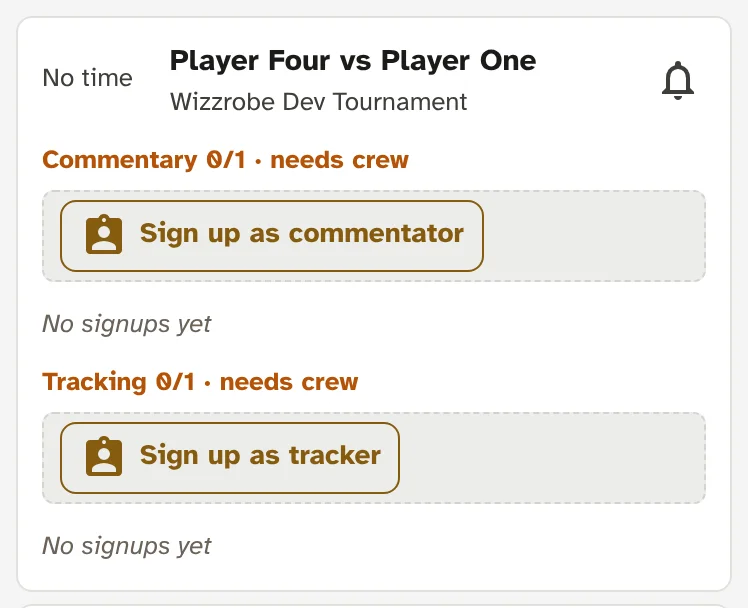
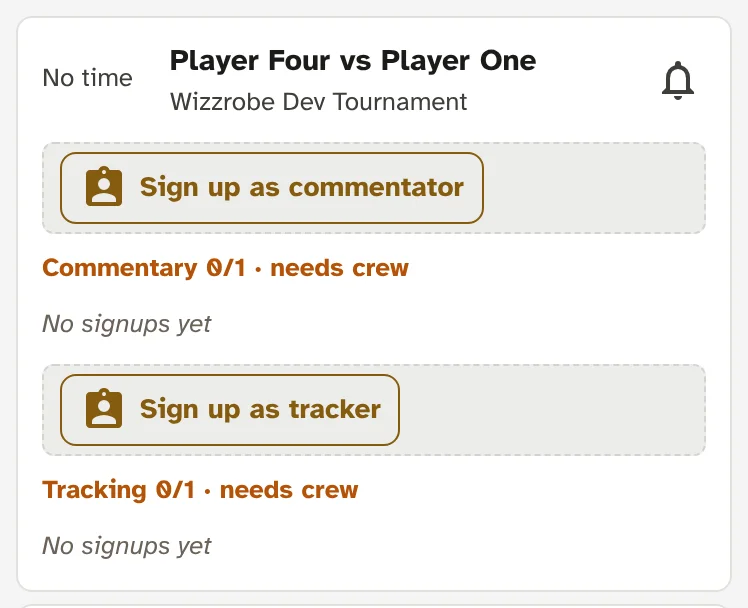
Put the crew button first in each role cell
Thomas asked for the Sign up / Withdraw tray ahead of the count and
names so it renders in the same place on every line; the crew cells
are top-aligned for the same reason.

Claude-Session: https://claude.ai/code/session_013dGThgHrV5VHUB53NboUdA

Changed region(s): [[0.0307, 0.2188, 0.6765, 0.4688], [0.0615, 0.5938, 0.5535, 0.8438]]

diff --git a/static/css/styles.css b/static/css/styles.css
@@ -4769,6 +4769,9 @@ ol.wiz-help-list { list-style-type: decimal; }
 .player-sheet__row > td:first-child {
     white-space: nowrap;
 }
+.player-sheet__row > td.player-sheet__crew-cell {
+    vertical-align: top;
+}
 .player-sheet__role {
     display: flex;
     flex-direction: column;

diff --git a/theme/tables/match_player_run_sheet.py b/theme/tables/match_player_run_sheet.py
@@ -171,14 +171,14 @@ _TITLE = "props.row._who || (props.row.bracket ? props.row.bracket.name : props.
 
 _YOU = '<span v-if="props.row._mine" class="player-sheet__you">You</span>'
 
-# One role: its count, the viewer's own control in a tray of its own, then the
-# names. The tray comes first so the button keeps one spot whatever the list
-# holds. In it the negative action sits left of the positive one. The phone
-# card has no column header above it, so it names the role; the desktop cell
-# sits under a Commentators or Trackers header and doesn't need to. Every
-# button stops the click so pressing it doesn't also open the details sheet.
-_ROLE = r'''<span class="run-sheet__crew" :class="c.short ? 'st-pending' : ''">__LABEL__<b>{{ c.count }}</b><template v-if="c.short"> · needs crew</template></span>
-<div v-if="c.can_withdraw || c.can_sign_up || c.ack_idx !== null" class="wiz-crew-action">
+# One role: the viewer's own control in a tray of its own, then the count, then
+# the names. The tray comes first, and the cell is top-aligned, so the button
+# sits in the same spot on every line whatever the role says or holds. In the
+# tray the negative action sits left of the positive one. The phone card has no
+# column header above it, so it names the role; the desktop cell sits under a
+# Commentators or Trackers header and doesn't need to. Every button stops the
+# click so pressing it doesn't also open the details sheet.
+_ROLE = r'''<div v-if="c.can_withdraw || c.can_sign_up || c.ack_idx !== null" class="wiz-crew-action">
 <q-btn v-if="c.can_withdraw" outline no-caps no-wrap color="negative" dense icon="undo" :label="__WITHDRAW__"
        :aria-label="'Withdraw as ' + c.singular"
        @click.stop="$parent.$emit('undo_' + c.singular, props.row)" />
@@ -190,6 +190,7 @@ _ROLE = r'''<span class="run-sheet__crew" :class="c.short ? 'st-pending' : ''">_
     <q-tooltip>Confirm you can cover this {{ c.singular }} slot</q-tooltip>
 </q-btn>
 </div>
+<span class="run-sheet__crew" :class="c.short ? 'st-pending' : ''">__LABEL__<b>{{ c.count }}</b><template v-if="c.short"> · needs crew</template></span>
 ''' + CREW_NAMES
 
 _ROLE_CELL = _ROLE.replace('__LABEL__', '').replace(
@@ -220,7 +221,8 @@ _BODY_SLOT = r'''
 </q-tr>
 <q-tr :props="props" class="run-sheet__row player-sheet__row" :class="props.row._flash ? 'wiz-row-flash' : ''"
       @click="$parent.$emit('open_match', props.row.id)">
-    <q-td v-for="col in props.cols" :key="col.name" :props="props">
+    <q-td v-for="col in props.cols" :key="col.name" :props="props"
+          :class="col.name === 'commentators' || col.name === 'trackers' ? 'player-sheet__crew-cell' : ''">
         <template v-if="col.name === 'scheduled_at'">''' + _WHEN + '''</template>
         <template v-else-if="col.name === 'match'">
             <button type="button" class="run-sheet__open" @click.stop="$parent.$emit('open_match', props.row.id)">

diff --git a/tests/theme/test_match_player_run_sheet.py b/tests/theme/test_match_player_run_sheet.py
@@ -127,10 +127,12 @@ class TestTemplates:
         opener = _ITEM_SLOT.split('<button type="button" class="player-sheet__open"')[1].split('</button>')[0]
         assert '<q-btn' not in opener
 
-    def test_the_button_keeps_one_spot_above_the_names(self):
-        # Thomas, 2026-10-13: names back, and the button in a fixed place.
+    def test_the_button_comes_first_in_each_role(self):
+        # Thomas, 2026-10-13: names back, and the button in a fixed place,
+        # ahead of the count and the names.
         for slot in (_BODY_SLOT, _ITEM_SLOT):
-            assert slot.index('wiz-crew-action') < slot.index('run-sheet__people')
+            assert slot.index('wiz-crew-action') < slot.index('run-sheet__crew') < slot.index('run-sheet__people')
+        assert 'player-sheet__crew-cell' in _BODY_SLOT
 
     def test_withdraw_sits_left_of_confirm(self):
         # Style guide: in a pair the negative action is on the left.

diff --git a/docs/reference/frontend.md b/docs/reference/frontend.md
@@ -254,7 +254,7 @@ Two rules the classes exist to keep:
 The public event schedule with crew signup.
 
 - No page title (the Event tab's view switcher already names the view): one `.wiz-view-note` line — "Every match, and where you can sign up as crew." — with one help button for `schedule-columns` and `match-states`. Every viewer is signed in, since home's membership gate runs first. Per-tournament notification preferences are managed on the Profile tab — see [../features/discord.md](../features/discord.md#tournament-notification-preferences).
-- A `MatchTableView` with `admin_controls=False`, `table_key=TableKeys.HOME_SCHEDULE` (`home.schedule_v3`), `storage_key='home_schedule'` and `layout='player_run_sheet'` (`theme/tables/match_player_run_sheet.py`). The admin run sheet's line, with the viewer's own buttons left on it: `PLAYER_RUN_SHEET_COLUMNS` (Time, Match, Stage, Commentators, Trackers, Status, Watch; none sortable), groups Live now / Up next / Waiting for players / Finished. `arrange_player_run_sheet(rows, discord_id)` stamps per-viewer fields (`_roles` with each role's approved/need count, `mine`, `can_sign_up`, `can_withdraw`, `ack_idx`; `_ack` for a player who hasn't acknowledged), plus each role's `people` and `empty`, which the `body`/`item` slots turn into a per-role cell: the count, the viewer's Withdraw/Sign up then Confirm in a `.wiz-crew-action` tray, then the names (`match_run_sheet.CREW_NAMES`) or "No signups yet", Acknowledge in Status, and the bell. A tapped line opens `MatchSheet` with a spectator `MatchBoardAccess()` and `decorate=decorate_player_row`, so it shows details (checklist, seed, crew names) and no staff control.
+- A `MatchTableView` with `admin_controls=False`, `table_key=TableKeys.HOME_SCHEDULE` (`home.schedule_v3`), `storage_key='home_schedule'` and `layout='player_run_sheet'` (`theme/tables/match_player_run_sheet.py`). The admin run sheet's line, with the viewer's own buttons left on it: `PLAYER_RUN_SHEET_COLUMNS` (Time, Match, Stage, Commentators, Trackers, Status, Watch; none sortable), groups Live now / Up next / Waiting for players / Finished. `arrange_player_run_sheet(rows, discord_id)` stamps per-viewer fields (`_roles` with each role's approved/need count, `mine`, `can_sign_up`, `can_withdraw`, `ack_idx`; `_ack` for a player who hasn't acknowledged), plus each role's `people` and `empty`, which the `body`/`item` slots turn into a per-role cell (top-aligned): the viewer's Withdraw/Sign up then Confirm in a `.wiz-crew-action` tray, then the count, then the names (`match_run_sheet.CREW_NAMES`) or "No signups yet", Acknowledge in Status, and the bell. A tapped line opens `MatchSheet` with a spectator `MatchBoardAccess()` and `decorate=decorate_player_row`, so it shows details (checklist, seed, crew names) and no staff control.
 - A match scheduled by a bracket shows a "<stage> · Game 2 of 3 · 1-0" link under the tournament name (`MatchDisplayService._bracket_ref`, rendered by `match_slots.py` / `match_grid.py`, handled by `_handle_open_bracket`). The series context comes off games the repository already prefetched, so it costs no extra query per row; the round *name* is deliberately absent, since naming a round needs the stage's whole graph. It emits `open_bracket` rather than carrying an `href`, so `ui.navigate.to` prepends the tenant `root_path`. Shared by every `MatchTableView`.
 - `MatchTableView(show_accommodations=True)` (admin Schedule, Proctor Station only) marks players with an **Arranged** ADA accommodation: `_apply_accommodations` adds `ada`/`ada_note` to the player dicts via `AccommodationService.arranged_notes_for` (empty for any viewer but STAFF/PROCTOR), and the players cell's icon emits `show_accommodation` to open a staff-notes popup — see [../features/ada-accommodations.md](../features/ada-accommodations.md).
 - `extra_slots` supply read-only state cells (per-state icon + timestamp) and a truncating seed-link cell.

diff --git a/application/help/content/crew.md b/application/help/content/crew.md
@@ -124,15 +124,16 @@ Turn on **Include past** to see the ones you've already worked.
 
 ## Reading the crew columns
 
-The board has a **Commentators** and a **Trackers** column. Each starts with
-approved crew against what the match needs: "1/2" means one approved
+The board has a **Commentators** and a **Trackers** column. Your own **Sign
+up** or **Withdraw** sits in a shaded box at the top of each, so it's in the same
+spot on every match. Under it is approved crew against what the match needs:
+"1/2" means one approved
 commentator out of two. Someone still waiting for approval doesn't count, so a
 match can have three signups and still say "needs crew". **Needs crew** uses
 the same rule when it decides whether a match is covered. On a phone each card
 names the role instead ("Commentary 1/2").
 
-Your own **Sign up** or **Withdraw** sits in a shaded box just under the count,
-so it's in the same spot on every match. Under that are the names: a tick for
+Under the count are the names: a tick for
 approved, a clock and "waiting for approval" for everyone else, and **You** for
 you. "No signups yet" means nobody has asked for that slot.
 

diff --git a/application/help/content/schedule-board.md b/application/help/content/schedule-board.md
@@ -23,7 +23,7 @@ players** and, if you've brought them back with the State filter, **Finished**.
 | **Time** | When it starts, in your local time. A date under it means it isn't today. |
 | **Match** | Who's playing, and the tournament. **You** marks a match you're playing in. |
 | **Stage** | Which stage it's on. If the stage is streamed, its name links to the stream. |
-| **Commentators**, **Trackers** | Approved crew against how many the match needs, your own **Sign up** or **Withdraw** just under that, then the names of everyone signed up. |
+| **Commentators**, **Trackers** | Your own **Sign up** or **Withdraw** at the top, then approved crew against how many the match needs, then the names of everyone signed up. |
 | **Status** | Where the match is, plus **Acknowledge** on a match you play that you haven't confirmed yet. |
 | **Watch** | The bell. Tap it to get a DM every time this match changes. |
 :::

diff --git a/application/changelog/changes/2026-10-13-crew-names-on-schedule.md b/application/changelog/changes/2026-10-13-crew-names-on-schedule.md
@@ -1,4 +1,4 @@
 ### Improved
 
 - The Event and Admin schedules show who's signed up for crew again, in separate Commentators and Trackers columns, with a tick for approved and a clock for anyone still waiting.
-- Your own Sign up or Withdraw sits just under each role's count, so it's in the same place on every match, and Withdraw now sits to the left of Confirm.
+- Your own Sign up or Withdraw comes first in each role, so it's in the same place on every match, and Withdraw now sits to the left of Confirm.
